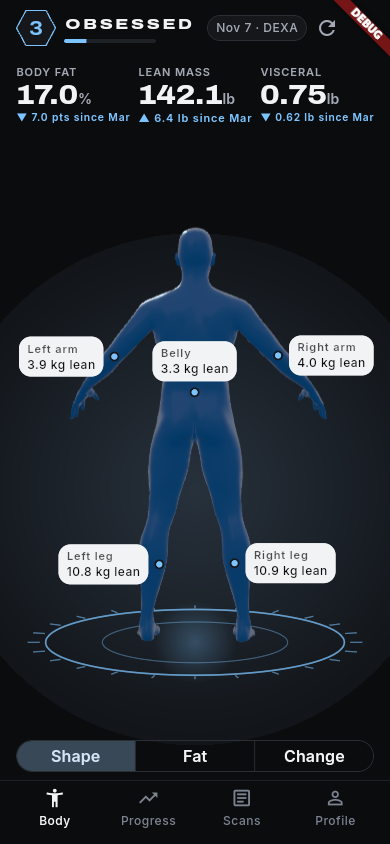
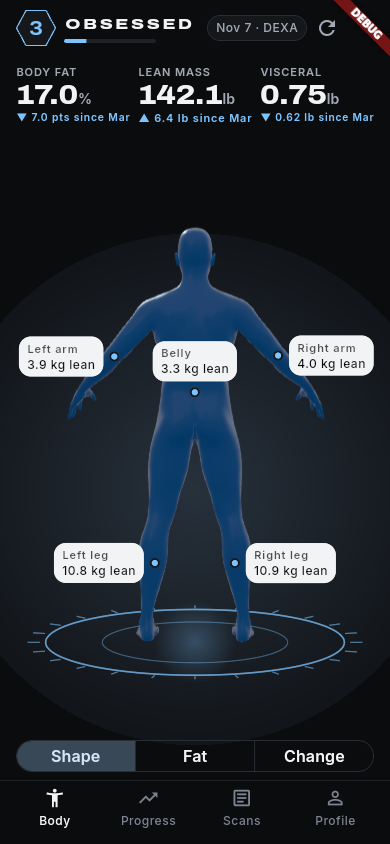
Match the heatmap's neutral parts to the plain body, and outline legend swatches
The neutral heatmap color is now sRGB-encoded like the heatmap's own
colors, so the head and unchanged parts match the Shape body instead of
coming out near black. Legend swatches get a faint outline so a dark
"no change" swatch stays visible.

Claude-Session: https://claude.ai/code/session_01881r6wStWWazdPF3GVtggV

diff --git a/packages/app_body/lib/src/data/flutter_scene_body_renderer.dart b/packages/app_body/lib/src/data/flutter_scene_body_renderer.dart
@@ -149,14 +149,15 @@ class FlutterSceneBodyRenderer implements BodyRenderer {
   @override
   Rgb get plainHeatColor {
     // Vertex colors multiply the heatmap material, so divide the plain
-    // look's color (glow included) by it.
+    // look's color (glow included) by it. Vertex colors are sRGB like the
+    // heatmap's, so encode the linear ratio back.
     final plain = _Look.of(_style, _brightness, heat: false);
     final heat = _Look.of(_style, _brightness, heat: true).baseColor;
-    double c(int i) =>
-        ((plain.baseColor[i] + (plain.emissive?[i] ?? 0)) / heat[i]).clamp(
-          0,
-          1,
-        );
+    double c(int i) {
+      final linear = (plain.baseColor[i] + (plain.emissive?[i] ?? 0)) / heat[i];
+      return math.pow(linear.clamp(0, 1), 1 / 2.2).toDouble();
+    }
+
     return Rgb(c(0), c(1), c(2));
   }
 

diff --git a/packages/app_body/lib/src/presentation/body_view.dart b/packages/app_body/lib/src/presentation/body_view.dart
@@ -609,6 +609,8 @@ class _Legend extends StatelessWidget {
                         blue: s.color.b,
                       ),
                       borderRadius: BorderRadius.circular(3),
+                      // Keeps a swatch in the body's own dark color visible.
+                      border: Border.all(color: tokens.textFaint),
                     ),
                   ),
                   const SizedBox(width: AppSpacing.xs),
